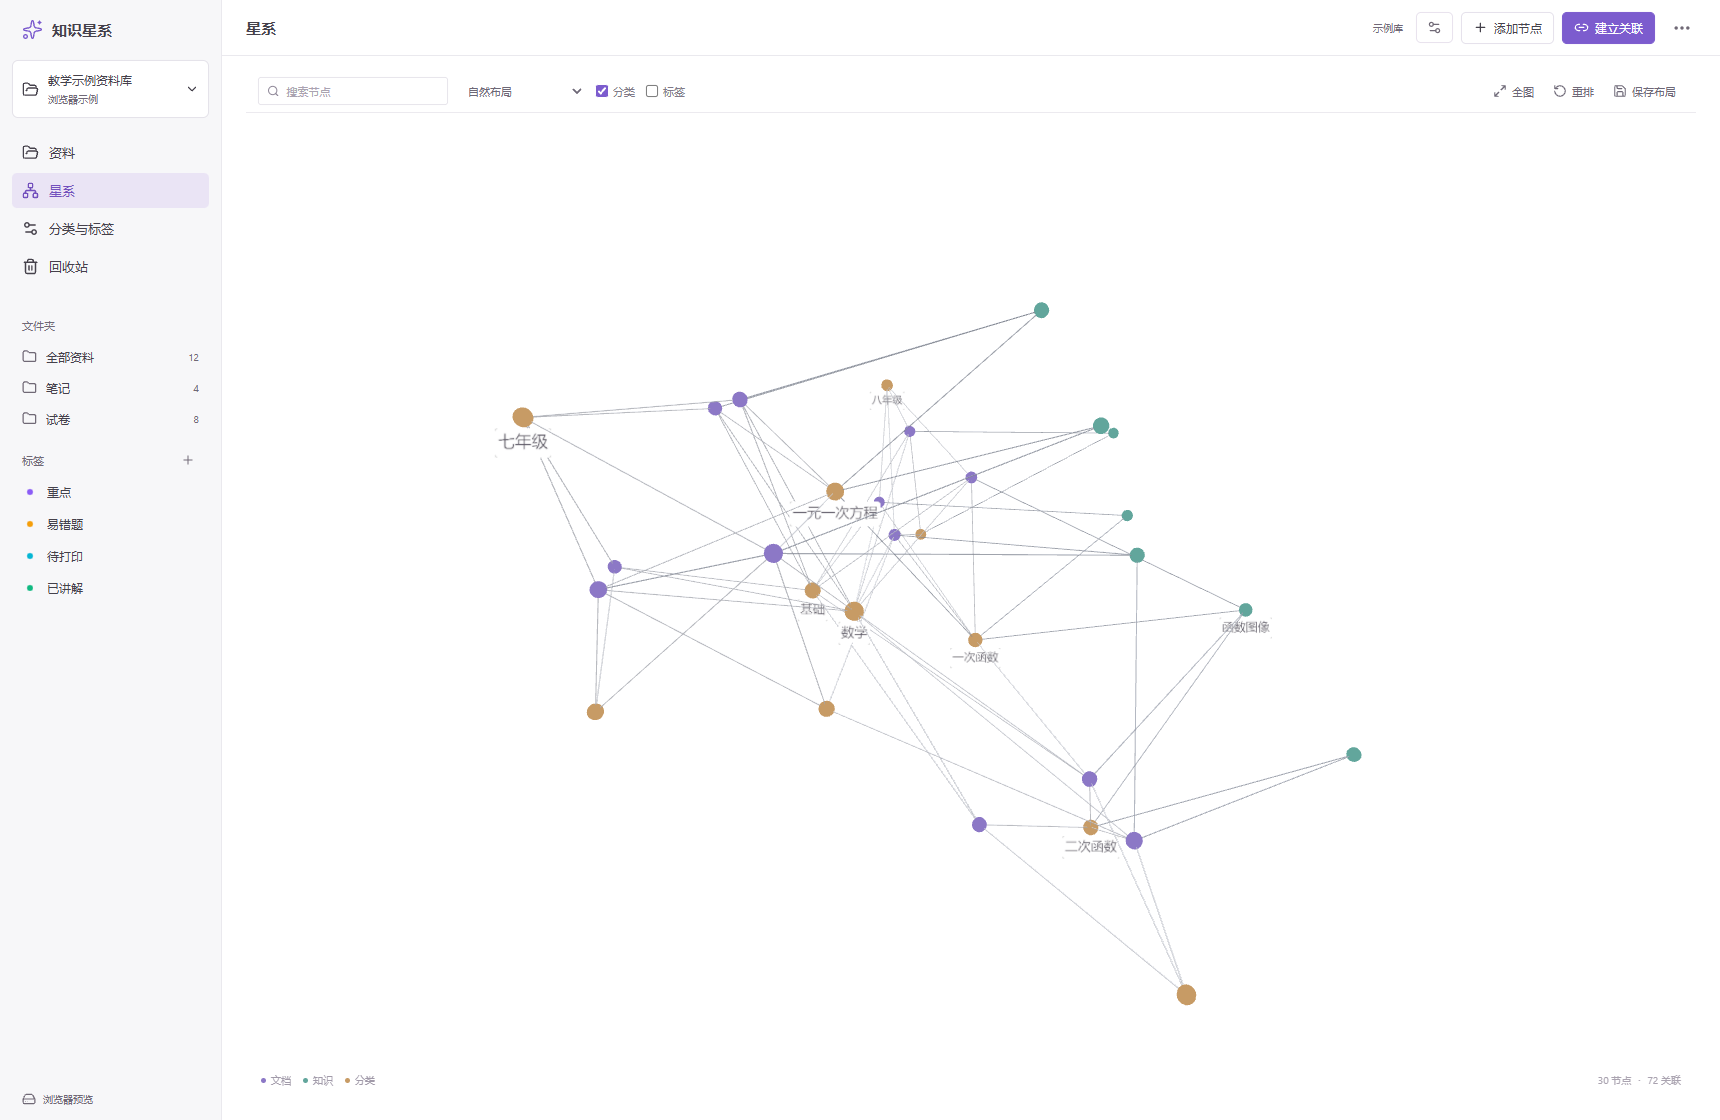
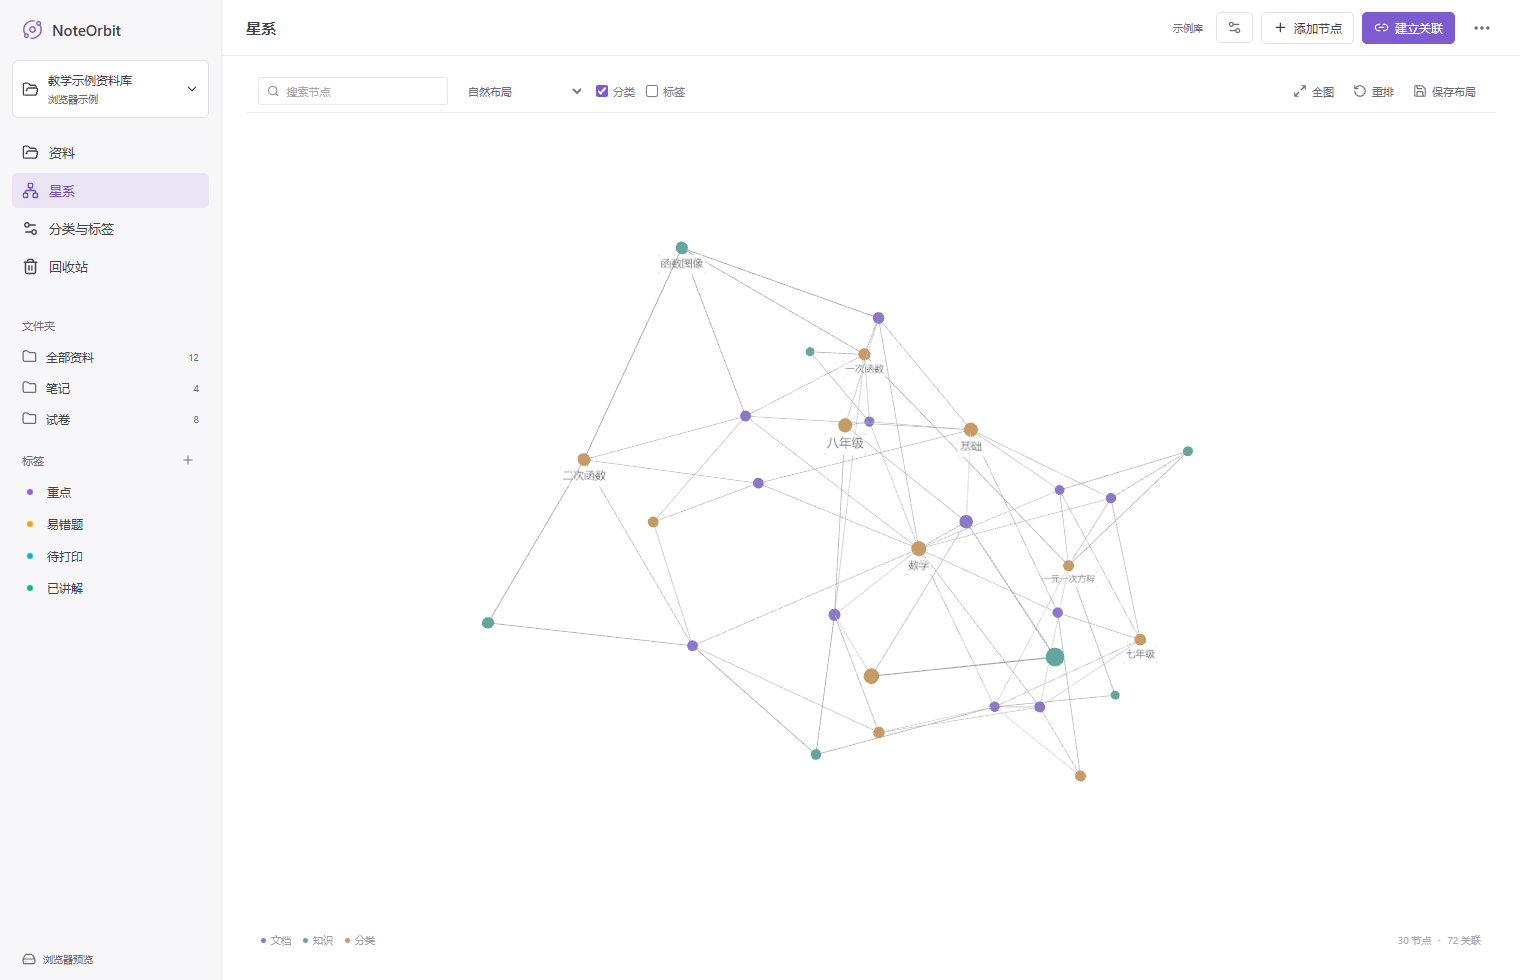
Rename application and project to NoteOrbit

diff --git a/src/demo.ts b/src/demo.ts
@@ -42,7 +42,7 @@ export function createDemoState(): WorkspaceState {
     const id = `doc-${i + 1}`;
     const doc: LibraryDocument = { id, title, path: `${kind === '笔记' || kind === '解析' ? '笔记' : '试卷'}/${title}.${extension}`, extension, kind, size: extension === 'pdf' ? 1100 : 500, updatedAt: today, tagIds: [...tagIds], values: { grade, subject: 'math', chapter: [...chapters], difficulty: i % 3 ? 'basic' : 'advanced', year: 2026 } };
     state.documents.push(doc);
-    notes.set(id, `# ${title}\n\n这是知识星系的示例笔记，用于体验本地资料整理与关联浏览。\n\n## 重点\n\n- 梳理章节中的核心概念。\n- 对照试卷记录解题方法。\n- 用分类、标签和关联串起相关资料。\n\n你可以编辑这段内容并保存。\n`);
+    notes.set(id, `# ${title}\n\n这是 NoteOrbit 的示例笔记，用于体验本地资料整理与关联浏览。\n\n## 重点\n\n- 梳理章节中的核心概念。\n- 对照试卷记录解题方法。\n- 用分类、标签和关联串起相关资料。\n\n你可以编辑这段内容并保存。\n`);
   });
   const rel = (source: string, target: string, typeId: string) => state.relations.push({ id: `rel-${state.relations.length + 1}`, source, target, typeId });
   rel('equations', 'knowledge-equality', 'contains'); rel('equations', 'knowledge-application', 'contains');
@@ -66,7 +66,7 @@ async function fileDB() { return await new Promise<IDBDatabase>((resolve, reject
 async function putFile(key: string, value: ReadDocumentResult) { const db = await fileDB(); await new Promise<void>((resolve, reject) => { const tx = db.transaction('files', 'readwrite'); tx.objectStore('files').put(value, key); tx.oncomplete = () => resolve(); tx.onerror = () => reject(tx.error); }); db.close(); }
 async function getFile(key: string) { const db = await fileDB(); const value = await new Promise<ReadDocumentResult | undefined>((resolve, reject) => { const request = db.transaction('files').objectStore('files').get(key); request.onsuccess = () => resolve(request.result); request.onerror = () => reject(request.error); }); db.close(); return value; }
 function pdf(): string {
-  const stream = 'BT /F1 24 Tf 64 740 Td (Knowledge Galaxy) Tj 0 -40 Td /F1 14 Tf (Example teaching document) Tj 0 -32 Td (Local PDF preview is ready.) Tj 0 -24 Td (This sample is for application testing.) Tj ET';
+  const stream = 'BT /F1 24 Tf 64 740 Td (NoteOrbit) Tj 0 -40 Td /F1 14 Tf (Example teaching document) Tj 0 -32 Td (Local PDF preview is ready.) Tj 0 -24 Td (This sample is for application testing.) Tj ET';
   const objects = ['<< /Type /Catalog /Pages 2 0 R >>','<< /Type /Pages /Kids [3 0 R] /Count 1 >>','<< /Type /Page /Parent 2 0 R /MediaBox [0 0 595 842] /Resources << /Font << /F1 4 0 R >> >> /Contents 5 0 R >>','<< /Type /Font /Subtype /Type1 /BaseFont /Helvetica >>',`<< /Length ${stream.length} >>\nstream\n${stream}\nendstream`];
   let content = '%PDF-1.4\n'; const offsets = [0];
   objects.forEach((object, index) => { offsets.push(content.length); content += `${index + 1} 0 obj\n${object}\nendobj\n`; });

diff --git a/src/App.tsx b/src/App.tsx
@@ -3,7 +3,7 @@ import {
   ArrowDownToLine, ArrowUpRight, BookOpen, Check, ChevronDown, ChevronRight,
   CircleHelp, FileImage, FileText, Folder, FolderOpen, GitBranch,
   HardDrive, Layers3, Link2, LoaderCircle, MoreHorizontal, Network, Plus, RotateCcw,
-  Search, Settings2, Sparkles, Trash2, Upload, X,
+  Search, Settings2, Orbit, Trash2, Upload, X,
 } from 'lucide-react';
 import { api } from './api';
 import type { DocumentKind, Facet, FacetType, FacetValue, LibraryCommand, LibraryDocument, WorkspaceState } from './domain';
@@ -145,7 +145,7 @@ export default function App() {
     void command({ type: 'update-document', id: document.id, patch: { values: { ...document.values, [facet.id]: value } } });
   }
 
-  if (!state) return <div className="loading-screen"><Sparkles size={28} /><h1>知识星系</h1><p>{toast?.error ? toast.text : '正在打开资料库…'}</p>{!toast?.error && <LoaderCircle className="spin" size={20} />}</div>;
+  if (!state) return <div className="loading-screen"><Orbit size={28} /><h1>NoteOrbit</h1><p>{toast?.error ? toast.text : '正在打开资料库…'}</p>{!toast?.error && <LoaderCircle className="spin" size={20} />}</div>;
 
   const pageTitles: Record<Page, string> = { documents: '资料库', galaxy: '星系', organize: '分类与标签', trash: '回收站' };
   const detailVisible = page !== 'organize' && Boolean(selectedDocument || selectedKnowledge || selectedTag || selectedOption);
@@ -154,7 +154,7 @@ export default function App() {
   return <div className={`app-shell ${mobileNav ? 'nav-visible' : ''}`}>
     {mobileNav && <button className="nav-scrim" aria-label="关闭导航" onClick={() => setMobileNav(false)} />}
     <aside className="sidebar">
-      <div className="brand"><Sparkles size={21} strokeWidth={1.6} /><span>知识星系</span></div>
+      <div className="brand"><Orbit size={21} strokeWidth={1.6} /><span>NoteOrbit</span></div>
       <button className="library-switch" disabled={busy} onClick={() => void perform(() => api.chooseLibrary(), '资料库已打开', true)} title={state.library.path}>
         <FolderOpen size={17} /><span><strong>{state.library.name}</strong><small>{state.library.mode === 'demo' ? '浏览器示例' : state.library.isExample ? '本地示例库' : '本地资料库'}</small></span><ChevronDown size={14} />
       </button>

diff --git a/index.html b/index.html
@@ -6,7 +6,7 @@
     <meta http-equiv="Content-Security-Policy" content="default-src 'self'; script-src 'self'; style-src 'self' 'unsafe-inline'; img-src 'self' data: blob:; font-src 'self' data:; connect-src 'self' ws://127.0.0.1:5173; worker-src 'self' blob:; object-src 'none'; frame-src 'none';" />
     <meta name="theme-color" content="#ffffff" />
     <link rel="icon" type="image/svg+xml" href="/icon.svg" />
-    <title>知识星系 · 本地资料库</title>
+    <title>NoteOrbit · 本地资料库</title>
   </head>
   <body><div id="root"></div><script type="module" src="/src/main.tsx"></script></body>
 </html>

diff --git a/README.md b/README.md
@@ -1,10 +1,12 @@
-# 知识星系
+# NoteOrbit
 
-一个供个人电脑本地使用的教学资料管理应用。文件保存在普通文件夹中，分类、标签和关联保存在本地 SQLite 数据库中。独立的 3D 星系可以旋转、平移、缩放，沿着关联浏览资料。
+NoteOrbit（知识星系）是一个供个人电脑本地使用的教学资料管理应用。文件保存在普通文件夹中，分类、标签和关联保存在本地 SQLite 数据库中。独立的 3D 星系可以旋转、平移、缩放，沿着关联浏览资料。
 
 ## 直接体验
 
-Windows 64 位用户双击 `启动知识星系.cmd`，或运行 `release/KnowledgeGalaxy-0.2.0-x64.exe`。首次运行会打开带有 20 份真实文件的示例资料库，其中包含测试用 PDF 和 Markdown 练习、笔记。示例内容用于体验功能。
+Windows 64 位用户双击 `启动NoteOrbit.cmd`，或运行 `release/NoteOrbit-0.2.1-x64.exe`。首次运行会打开带有 20 份真实文件的示例资料库，其中包含测试用 PDF 和 Markdown 练习、笔记。示例内容用于体验功能。
+
+更新前先关闭旧版程序。NoteOrbit 会沿用旧版桌面设置和资料库选择；已有文件、分类、标签、关联和备份保持兼容。源码项目目录为 `noteorbit`。
 
 1. 点击左上角资料库名称，选择自己的资料文件夹，也可以新建空文件夹。
 2. 点击“导入文件”，将资料复制到当前资料库；同内容文件会自动跳过。
@@ -17,7 +19,7 @@ Windows 64 位用户双击 `启动知识星系.cmd`，或运行 `release/Knowled
 
 ## 当前已经实现
 
-0.2 版采用白色界面、浅灰侧栏与少量紫色强调。移除英文眉题、口号和重复筛选，列表与图谱使用紧凑工具栏；属性、标签和分类选项按需展开。
+0.2.1 版统一使用 NoteOrbit 名称与轨道图标，保留白色界面、浅灰侧栏与少量紫色强调。列表与图谱使用紧凑工具栏，属性、标签和分类选项按需展开。
 
 - 本地文件夹资料库，支持 PDF、Word（doc/docx）、Markdown、TXT、PNG/JPG/GIF/WebP。
 - 文件列表、文件夹/类型/分类/标签筛选，以及资料名称、标签和关联节点搜索。
@@ -73,6 +75,7 @@ src/components/GalaxyView.tsx      Three.js / force-graph 3D 星系
 src/components/DocumentPreview.tsx PDF.js、图片与笔记预览
 electron/preload.cjs                受控桌面桥接
 electron/main.cjs                   窗口、文件对话框与安全 IPC
+electron/identity.cjs               应用标识与旧版设置兼容
 electron/repository.cjs             SQLite、文件、导入、备份和恢复
 tests/backend.test.cjs              数据与文件完整性测试
 ```
@@ -88,6 +91,8 @@ flowchart LR
 ```
 
 每个资料库中的 `.galaxy/catalog.sqlite` 保存分类、标签、知识节点、关系和布局；回收文件放在 `.galaxy/trash`。文档采用稳定 UUID 和库内相对路径，便于整体移动和备份。
+
+旧版资料目录、备份格式标识和浏览器缓存键继续保留，避免更名影响已保存的数据。新安装的桌面设置目录使用 NoteOrbit。
 
 Electron 使用进程隔离、渲染器沙箱、受控 IPC 和路径校验。写入异常会回滚本次数据库与文件操作；这不等于具备完整的断电恢复日志。
 
